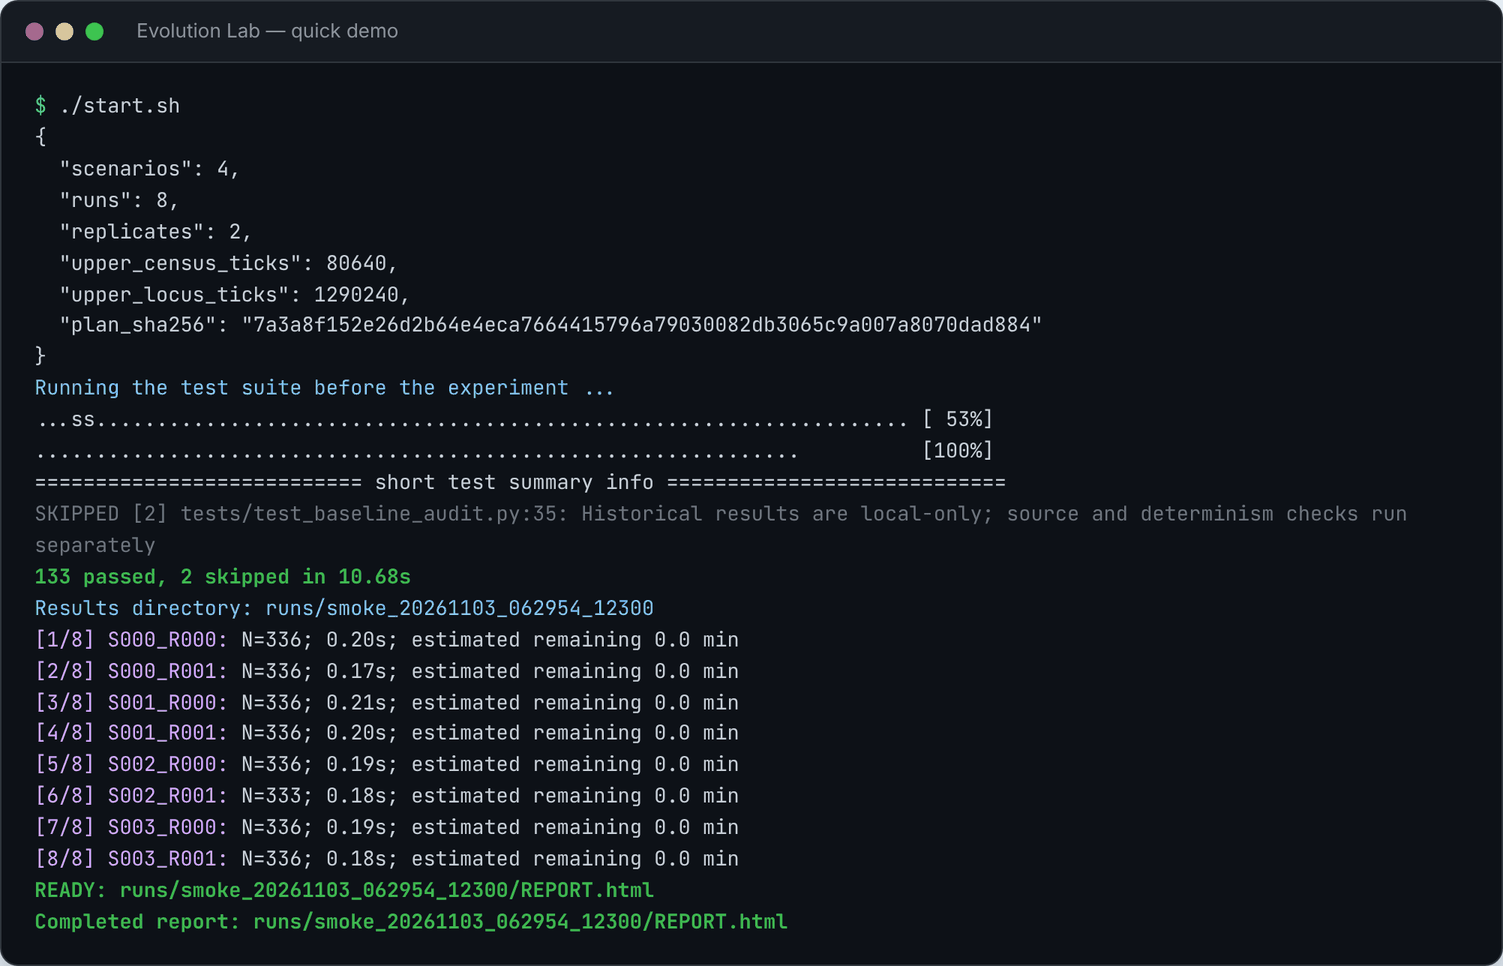
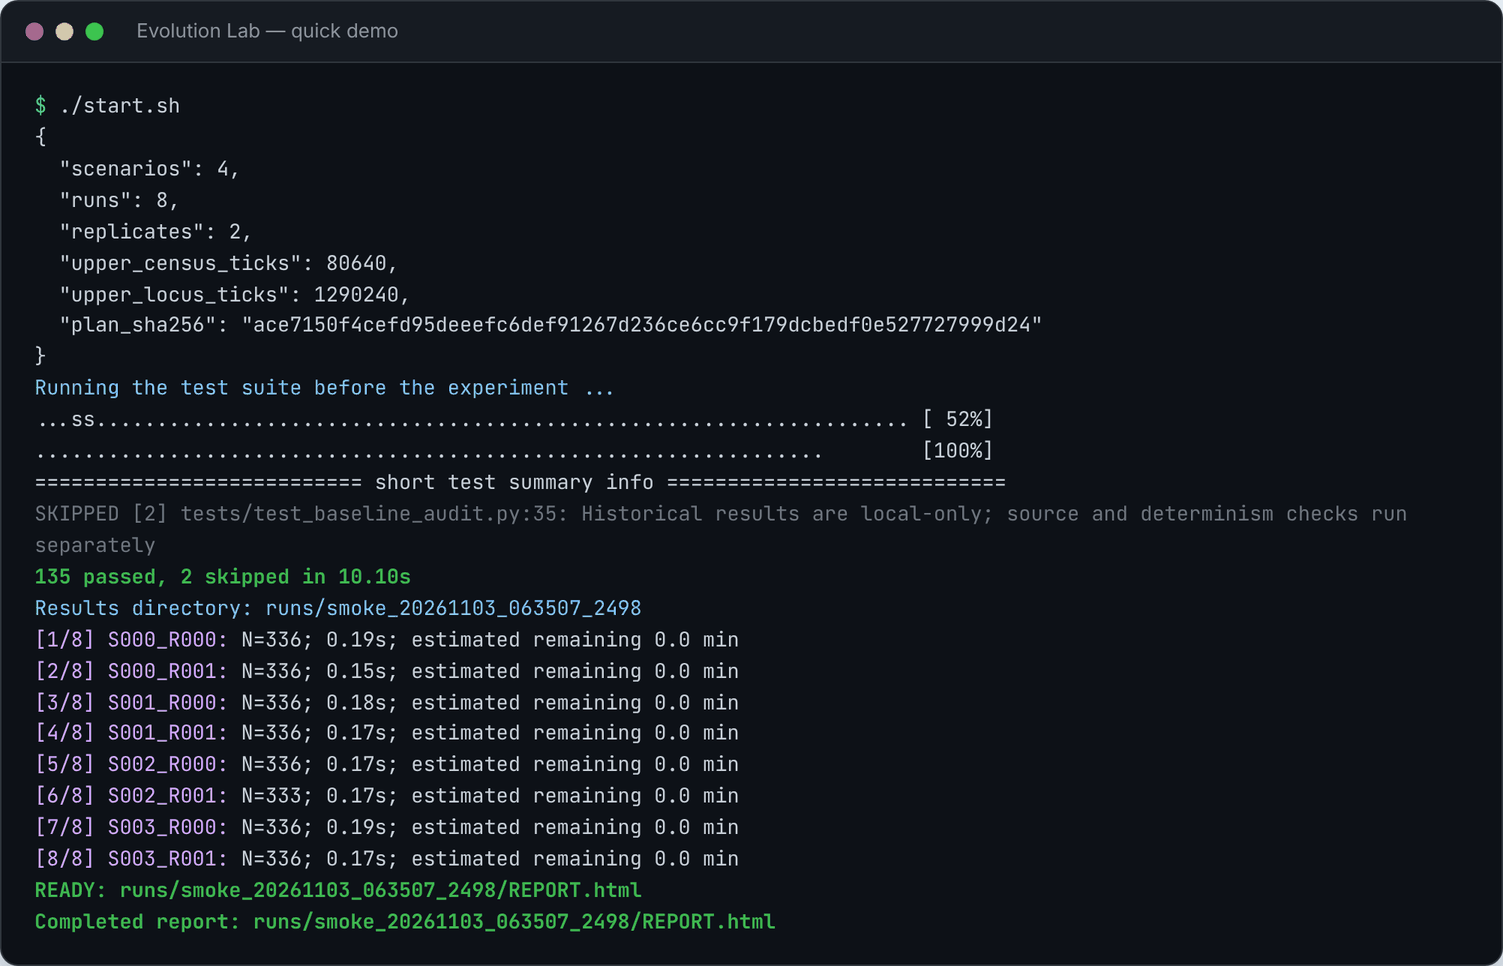
Record commit in downloaded zips so tests and launchers pass there
Outside a git clone (GitHub "Download ZIP" or the release zip) provenance
had no git_sha, so test_cli_simulate_checkpoint_resume_and_artifacts failed
and the launchers refused to start the experiment. git archive now writes
the commit into .git_archival.txt (export-subst) and provenance falls back
to it, marking source_origin as "archive".

Claude-Session: https://claude.ai/code/session_01JbXtWqG8642k4h3a4L1VH4

diff --git a/src/evolution_lab_v2/artifacts.py b/src/evolution_lab_v2/artifacts.py
@@ -36,13 +36,30 @@ def signature():
             "dependencies": dependencies, "bit_generator": "PCG64", "source_sha256": source_hashes()}
 
 
+def archived_git_sha():
+    """Commit recorded by git archive / GitHub "Download ZIP" (export-subst), else None."""
+    try:
+        text = (ROOT / ".git_archival.txt").read_text(encoding="utf-8")
+    except OSError:
+        return None
+    for line in text.splitlines():
+        key, _, value = line.partition(":")
+        value = value.strip()
+        if key.strip() == "node" and value and "$Format" not in value:
+            return value
+    return None
+
+
 def provenance():
     def git(*args):
         r = subprocess.run(["git", "-C", str(ROOT), *args], text=True, capture_output=True, check=False)
         return r.stdout.strip() if r.returncode == 0 else None
+    archived = archived_git_sha()
     return {**signature(), "utc_timestamp": datetime.now(timezone.utc).isoformat(),
             "platform": platform.platform(), "python_executable": sys.executable,
-            "git_sha": git("rev-parse", "HEAD"), "git_status": git("status", "--porcelain"),
+            "git_sha": archived or git("rev-parse", "HEAD"),
+            "git_status": None if archived else git("status", "--porcelain"),
+            "source_origin": "archive" if archived else "git",
             "command": sys.argv}
 
 

diff --git a/tests/test_provenance.py b/tests/test_provenance.py
@@ -1,0 +1,16 @@
+from evolution_lab_v2 import artifacts
+
+
+def test_archived_sha_used_for_downloaded_zip(tmp_path, monkeypatch):
+    (tmp_path / '.git_archival.txt').write_text('node: 0123456789abcdef\n', encoding='utf-8')
+    monkeypatch.setattr(artifacts, 'ROOT', tmp_path)
+    record = artifacts.provenance()
+    assert record['git_sha'] == '0123456789abcdef'
+    assert record['source_origin'] == 'archive'
+    assert record['git_status'] is None
+
+
+def test_unsubstituted_placeholder_is_ignored(tmp_path, monkeypatch):
+    (tmp_path / '.git_archival.txt').write_text('node: $Format:%H$\n', encoding='utf-8')
+    monkeypatch.setattr(artifacts, 'ROOT', tmp_path)
+    assert artifacts.archived_git_sha() is None

diff --git a/README.md b/README.md
@@ -5,7 +5,7 @@
 <p align="center">
   <a href="https://github.com/ASSOLI99/-genetic_algorithm_for_evolution_theory/actions/workflows/tests.yml"><img src="https://github.com/ASSOLI99/-genetic_algorithm_for_evolution_theory/actions/workflows/tests.yml/badge.svg" alt="tests"></a>
   <img src="https://img.shields.io/badge/python-3.13%2B-3776AB?logo=python&logoColor=white" alt="Python 3.13+">
-  <img src="https://img.shields.io/badge/tests-133%20passing-2ea44f" alt="133 tests">
+  <img src="https://img.shields.io/badge/tests-135%20passing-2ea44f" alt="135 tests">
   <img src="https://img.shields.io/badge/platform-Windows%20%7C%20macOS%20%7C%20Linux-informational" alt="platforms">
   <a href="LICENSE"><img src="https://img.shields.io/badge/license-MIT-yellow" alt="MIT license"></a>
 </p>
@@ -22,7 +22,7 @@
 
 It drops seven reproduction strategies into the *same* small world — shared food, a changing environment, parasites, aging and death — and lets them compete. Then it shows you, with charts and honest uncertainty, who grew, who shrank and who went extinct. It even tests *invented* four- and eight-parent systems to ask "why two and not more?".
 
-Everything is reproducible: the same seed gives the same result, every run is saved with checkpoints, and 133 automated tests check the bookkeeping before any experiment starts.
+Everything is reproducible: the same seed gives the same result, every run is saved with checkpoints, and 135 automated tests check the bookkeeping before any experiment starts.
 
 ## ⬇ Download and run in 2 minutes
 
@@ -182,7 +182,7 @@ The repository ships source, tests, configs and methods. Generated runs, the his
 │   ├── eco_analysis.py      statistics, charts, HTML report
 │   ├── model.py, genetics.py  fixed-size mathematical reference engine
 │   └── cli.py               command-line interface
-├── tests/                   133 automated tests
+├── tests/                   135 automated tests
 ├── tools/                   baseline audit and evidence summaries
 └── evolution_lab_verified.py  original v0.1 simulation, byte-preserved
 ```

diff --git a/README.ar.md b/README.ar.md
@@ -5,7 +5,7 @@
 <p align="center">
   <a href="https://github.com/ASSOLI99/-genetic_algorithm_for_evolution_theory/actions/workflows/tests.yml"><img src="https://github.com/ASSOLI99/-genetic_algorithm_for_evolution_theory/actions/workflows/tests.yml/badge.svg" alt="tests"></a>
   <img src="https://img.shields.io/badge/python-3.13%2B-3776AB?logo=python&logoColor=white" alt="Python 3.13+">
-  <img src="https://img.shields.io/badge/tests-133%20passing-2ea44f" alt="133 tests">
+  <img src="https://img.shields.io/badge/tests-135%20passing-2ea44f" alt="135 tests">
   <a href="LICENSE"><img src="https://img.shields.io/badge/license-MIT-yellow" alt="MIT license"></a>
 </p>
 
@@ -23,7 +23,7 @@
 
 البرنامج يحط سبع طرق تكاثر داخل **نفس العالم الصغير**: أكل مشترك ومحدود، بيئة تتغير، طفيليات، شيخوخة وموت. ويخليها تتنافس، وبعدها يعرض لك بالرسوم البيانية — ومع هوامش عدم اليقين بكل أمانة — مين زاد، ومين نقص، ومين انقرض. وكمان يجرّب أنظمة **مخترعة** بأربع وثمان آباء عشان يسأل: «ليش اثنين بالذات وليس أكثر؟».
 
-كل شي قابل للإعادة: نفس البذرة العشوائية تعطي نفس النتيجة، كل تشغيل ينحفظ مع نقاط استكمال، و133 اختبار آلي تتأكد من صحة الحسابات قبل ما تبدأ أي تجربة.
+كل شي قابل للإعادة: نفس البذرة العشوائية تعطي نفس النتيجة، كل تشغيل ينحفظ مع نقاط استكمال، و135 اختبار آلي تتأكد من صحة الحسابات قبل ما تبدأ أي تجربة.
 
 ## ⬇ التحميل والتشغيل في دقيقتين
 
